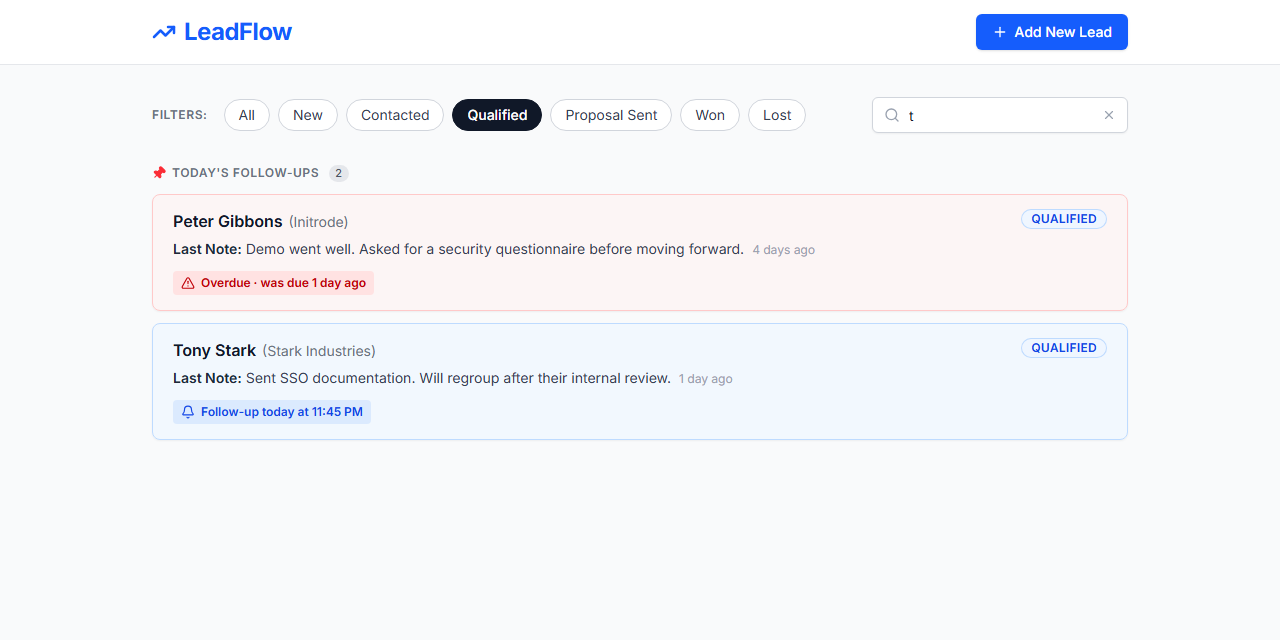
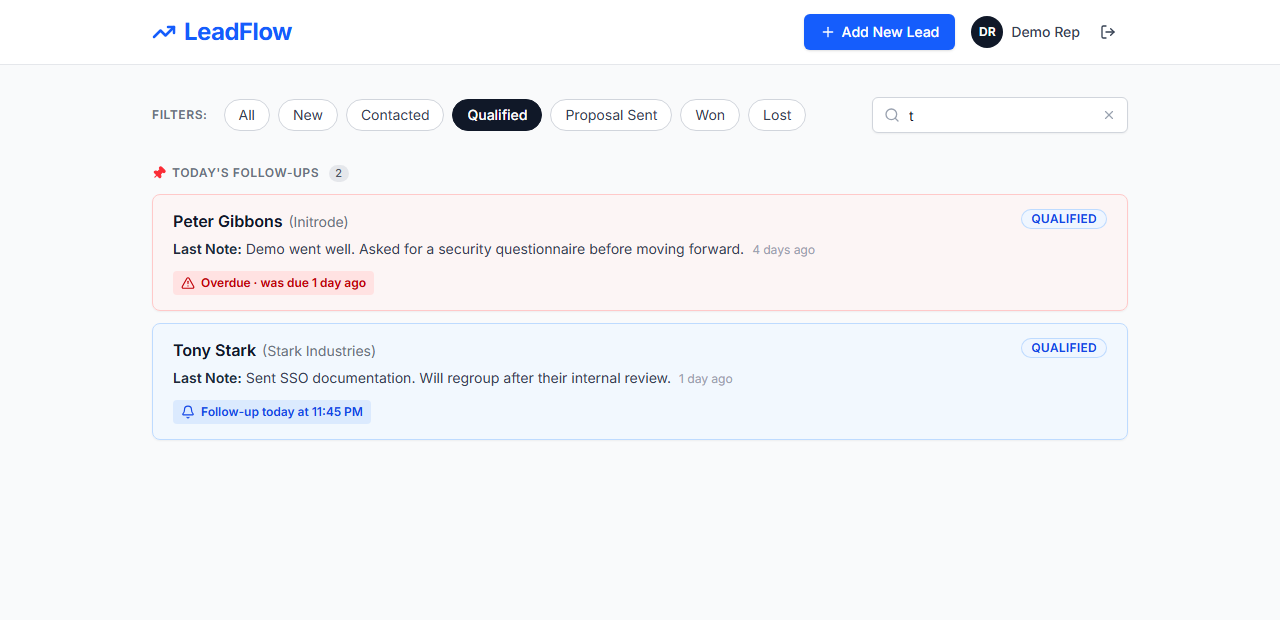
docs: add screenshots of the full working flow
Recaptured the set with the signed-in header and added the Add Lead dialog, logging a discussion with a follow-up, and the mobile layout.

diff --git a/README.md b/README.md
@@ -8,9 +8,15 @@ SQLAlchemy 2 · Alembic · PostgreSQL 16 — Docker Compose · GitHub Actions
 
 ![Lead list with pinned follow-ups](docs/screenshots/lead-list.png)
 
-| Lead timeline | Filters + search | Sign in |
-| --- | --- | --- |
-| ![Lead timeline dialog](docs/screenshots/lead-timeline.png) | ![Status filter and search](docs/screenshots/filters-and-search.png) | ![Login page](docs/screenshots/login.png) |
+### Screenshots of the working flow
+
+| 1. Sign in | 2. Filter by status + search by name |
+| --- | --- |
+| ![Login page with demo account](docs/screenshots/login.png) | ![Qualified filter with name search](docs/screenshots/filters-and-search.png) |
+| **3. Add a new lead** | **4. Lead timeline (newest first)** |
+| ![Add New Lead dialog](docs/screenshots/add-lead.png) | ![Lead timeline dialog](docs/screenshots/lead-timeline.png) |
+| **5. Log a discussion with a follow-up** | **6. Mobile layout** |
+| ![Discussion form with follow-up date and time](docs/screenshots/log-discussion.png) | ![Lead list on a phone](docs/screenshots/mobile.png) |
 
 ---
 
